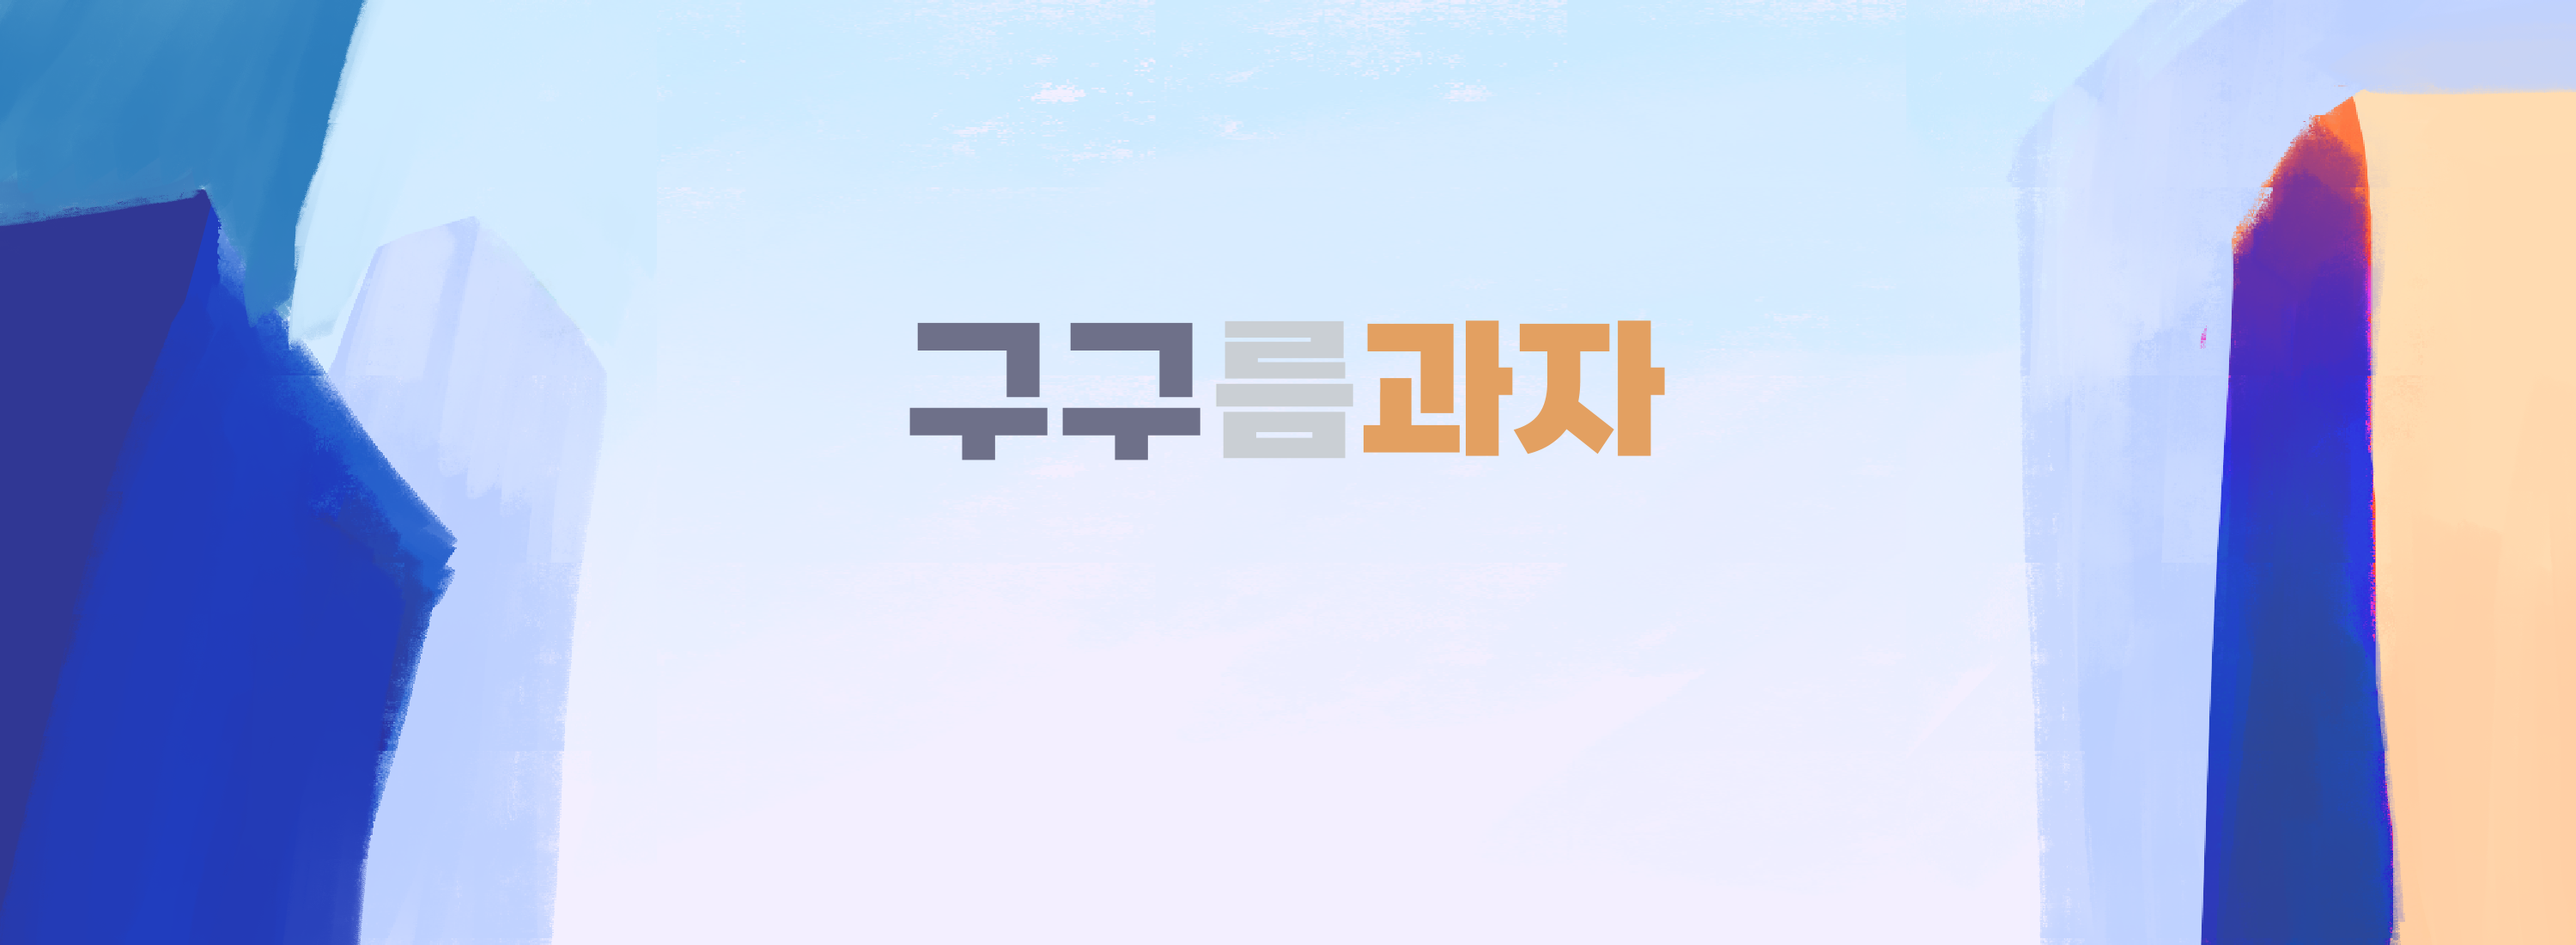
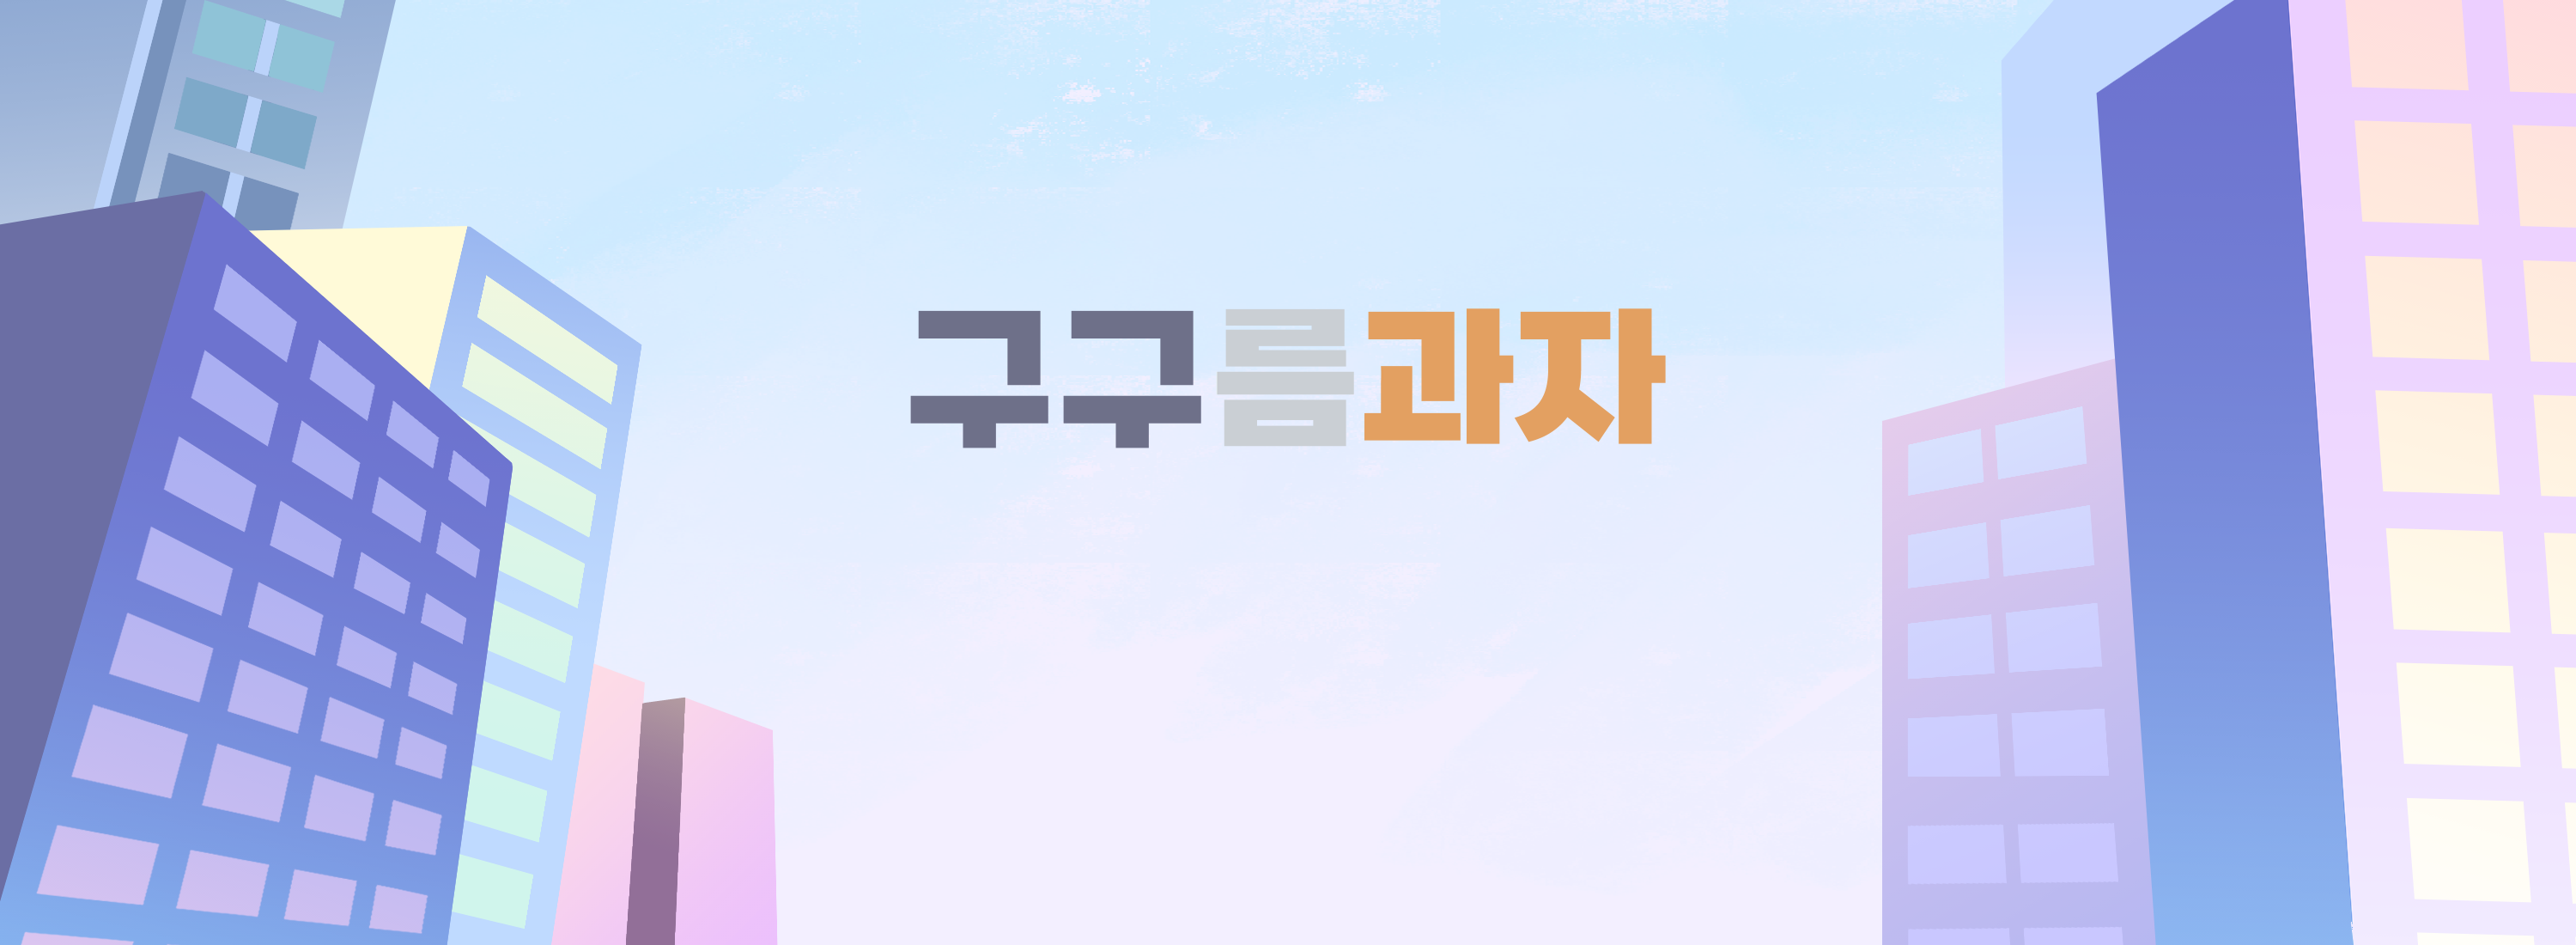
Updated: 타이틀 이미지 변경, onfire > smokeFire 이름 변경

diff --git a/js/systems/cigaretteFall.js b/js/systems/cigaretteFall.js
@@ -36,13 +36,13 @@ function updateCigarettes() {
         ) {
             cig.hasHitPlayer = true; // 먼저 잠가 다음 프레임 재타격 차단
             addGauge(-DATA.CONFIG.CIGARETTE.AIR_DAMAGE); // 폐 게이지 -5 (clamp 내장)
-            // 떨어지는 담배에 맞으면 '불붙음(onFire)' 상태로.
+            // 떨어지는 담배에 맞으면 '불붙음(smokeFire)' 상태로.
 
-            // onFire 는 idle 과 동작 동일(이동·줍기 가능), 이미지만 다르고 시간 지나면 자동 idle 복귀.
-            // ⚠ 줍기/피우기 중(picking/smoking)에 맞으면 그 애니가 끊기지 않도록 idle/onFire 일 때만 덮어쓴다.
+            // smokeFire 는 idle 과 동작 동일(이동·줍기 가능), 이미지만 다르고 시간 지나면 자동 idle 복귀.
+            // ⚠ 줍기/피우기 중(picking/smoking)에 맞으면 그 애니가 끊기지 않도록 idle/smokeFire 일 때만 덮어쓴다.
             const s = STATE.player.playerStatus;
-            if (s === "idle" || s === "onFire") {
-                STATE.player.enterStatus("onFire");
+            if (s === "idle" || s === "smokeFire") {
+                STATE.player.enterStatus("smokeFire");
             }
         }
     }

diff --git a/js/systems/anim.js b/js/systems/anim.js
@@ -24,11 +24,11 @@ function getPlayerClip(p) {
             return CLIPS.picking;
         case "stunned":
             return CLIPS.stunned;
-        case "onFire":
+        case "smokeFire":
             // 불붙음: 움직여도/주워도 idle 과 동일. 차이는 오직 이미지.
-            // 지금은 움직임과 무관하게 onFire 이미지 1장만 보여준다.
+            // 지금은 움직임과 무관하게 smokeFire 이미지 1장만 보여준다.
             // (걸을 때 '불붙은 걷기' 애니가 필요하면 말해주세요 → walk 처럼 분기 가능)
-            return CLIPS.onFire;
+            return CLIPS.smokeFire;
         case "idle":
         default:
             // 대기: 움직이는 중이면 걷기, 멈춰 있으면 기본 이미지
@@ -40,7 +40,7 @@ function getPlayerClip(p) {
  * 몸 상태(default ↔ round)에 따라 파일명 접두사를 바꾼다.
  * 폐 게이지가 임계값 "이상"이면 '99_default' → '99_round' 로 통째 교체.
  * (round 전용 클립을 따로 두지 않고, 같은 클립의 파일명만 바꿔 재사용한다.
- *  → 모든 동작(idle/walk/picking/smoking/stunned/onFire)이 자동으로 round 로 바뀜)
+ *  → 모든 동작(idle/walk/picking/smoking/stunned/smokeFire)이 자동으로 round 로 바뀜)
  * @param {string} filename 예: "99_default_smokeS1.png"
  * @returns {string} 예: "99_round_smokeS1.png" (임계값 미만이면 원본 그대로)
  */

diff --git a/js/systems/interaction.js b/js/systems/interaction.js
@@ -56,10 +56,10 @@ function smoke() {
     // 사전 조건 1: E 를 "막 눌렀나" (홀드로는 발동 안 함 — 한 번 누를 때마다 한 개)
     if (!STATE.input.interactPressed) return;
 
-    // idle 과 onFire 일 때만 주울 수 있다 (picking/smoking/stunned 중엔 금지).
-    // onFire 는 idle 과 동작 동일 — 주우면 picking 으로 넘어가 불붙음 상태는 끊긴다.
+    // idle 과 smokeFire 일 때만 주울 수 있다 (picking/smoking/stunned 중엔 금지).
+    // smokeFire 는 idle 과 동작 동일 — 주우면 picking 으로 넘어가 불붙음 상태는 끊긴다.
     const s = STATE.player.playerStatus;
-    if (s !== "idle" && s !== "onFire") return;
+    if (s !== "idle" && s !== "smokeFire") return;
 
     // 플레이어 충돌 박스는 플레이어가 스스로 알려준다.
     const playerBox = STATE.player.getBox();

diff --git a/js/data.js b/js/data.js
@@ -164,7 +164,7 @@ const DATA = {
                 picking: 25, // ≈0.25초.  개발문서엔 "?초"로 미정 → 임시 1초. TODO 확정
                 smoking: 120, // ≈2초.  개발문서엔 "2초 강제 유지" → 120 으로 늘릴 수 있음. TODO
                 stunned: 180, // ≈3초. 개발문서: 밟히면 스턴 3초 → 180 추정. TODO 확정
-                onFire: 90, // ≈1.5초. 불붙은 상태 유지 시간. idle 처럼 움직임/줍기 가능. TODO 밸런스 확정
+                smokeFire: 90, // ≈1.5초. 불붙은 상태 유지 시간. idle 처럼 움직임/줍기 가능. TODO 밸런스 확정
                 // idle 은 시간 제한 없음 (다음 행동 전까지 유지) → 여기 없음
             },
 
@@ -186,7 +186,7 @@ const DATA = {
                 // 스턴: 일단 기본 이미지로 placeholder
                 stunned: ["99_default_stepOn.png"], // TODO 스턴 전용 이미지로 교체
                 // 불붙음: idle 과 동작은 같고 이미지만 다름. 정적 1장.
-                onFire: ["99_default_smokeFire.png"], // TODO 에셋: 실제 불붙은 이미지로 교체
+                smokeFire: ["99_default_smokeFire.png"], // TODO 에셋: 실제 불붙은 이미지로 교체
             },
 
             // 피우기(smoking)는 담배 종류마다 프레임 수/그림이 다르다 (개발문서 단/중/장).

diff --git a/js/entities/player.js b/js/entities/player.js
@@ -24,7 +24,7 @@ class Player {
         this.looking = "right";
 
         // ── 상태(FSM) + 애니메이션 ──
-        this.playerStatus = "idle"; // idle | picking | smoking | stunned | onFire
+        this.playerStatus = "idle"; // idle | picking | smoking | stunned | smokeFire
         this.isMoving = false; // 걷기 애니 판단용 (지금 움직이는 중인가)
         this.smokeType = null; // 피우는 중인 담배 종류 (smoking 클립 선택용)
         this.animFrame = 0; // 현재 클립에서 몇 번째 그림인가
@@ -60,7 +60,7 @@ class Player {
      * 상태(playerStatus)를 바꾸고 애니메이션을 처음부터 다시 시작한다.
      * picking/smoking/stunned 처럼 시간이 정해진 상태는 지속 프레임도 세팅한다.
      * (idle 은 STATUS_DURATION 에 없으므로 animTimer = 0 → 시간 제한 없음)
-     * @param {("idle"|"picking"|"smoking"|"stunned"|"onFire")} status
+     * @param {("idle"|"picking"|"smoking"|"stunned"|"smokeFire")} status
      */
     enterStatus(status) {
         this.playerStatus = status;

diff --git a/js/systems/movement.js b/js/systems/movement.js
@@ -12,8 +12,8 @@
 function movePlayer() {
     const p = STATE.player;
 
-    // 이동 가능 상태: idle 과 onFire(불붙음). 줍기/피우기/스턴은 이동 잠금.
-    const canMove = p.playerStatus === "idle" || p.playerStatus === "onFire";
+    // 이동 가능 상태: idle 과 smokeFire(불붙음). 줍기/피우기/스턴은 이동 잠금.
+    const canMove = p.playerStatus === "idle" || p.playerStatus === "smokeFire";
     if (!canMove) {
         p.walk(0); // 멈춤(isMoving=false → 걷기 애니 해제)
         return;

diff --git a/index.html b/index.html
@@ -41,7 +41,7 @@
                         <button id="btn-game-credit" class="btn-ui-frame">
                             <img
                                 src="img_assets/ui/gameCredit.png"
-                                alt="크레딧"
+                                alt="난이도"
                             />
                         </button>
                     </div>